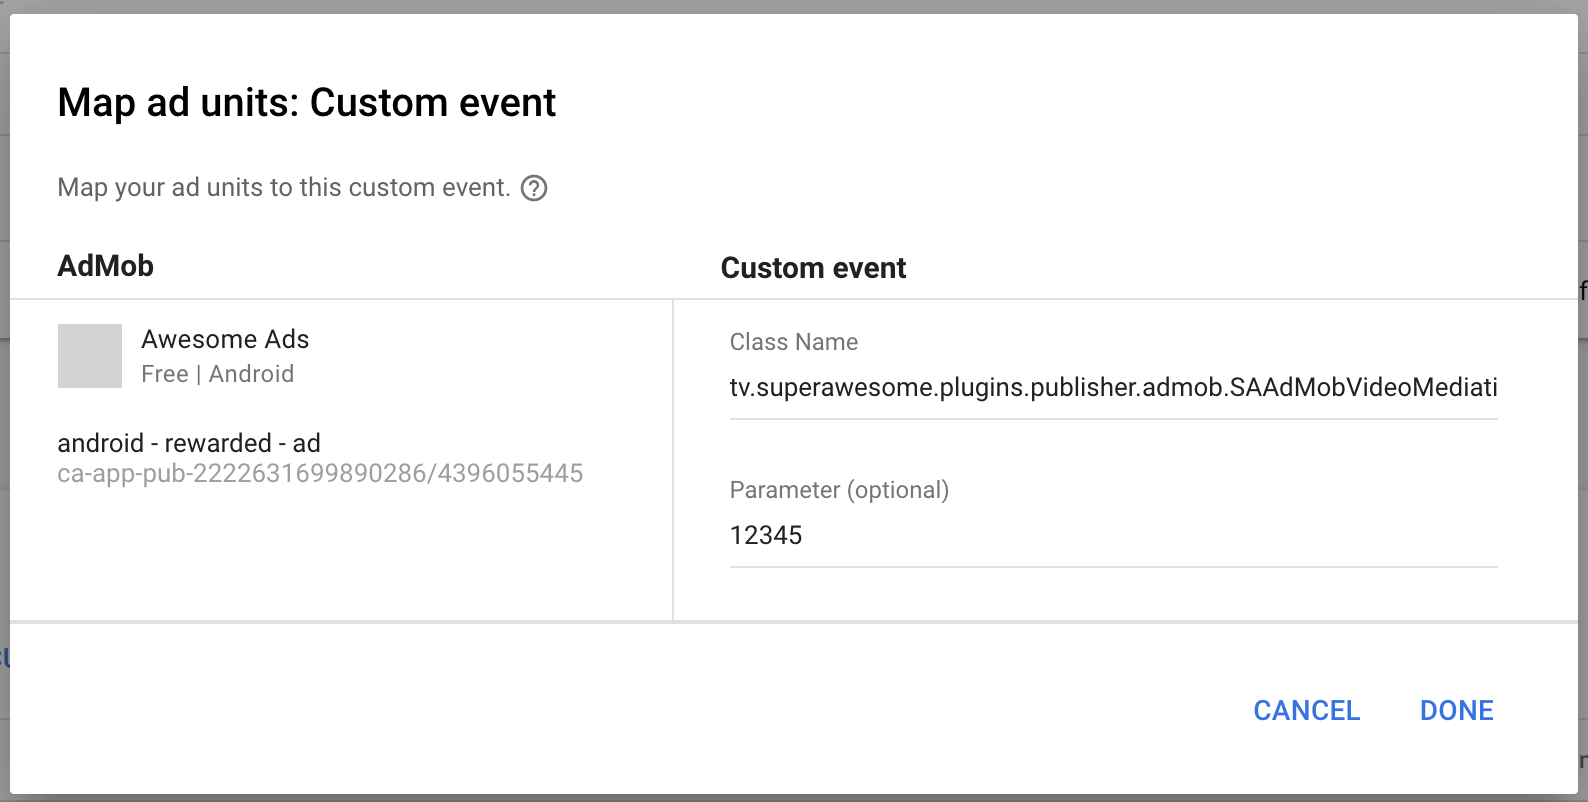
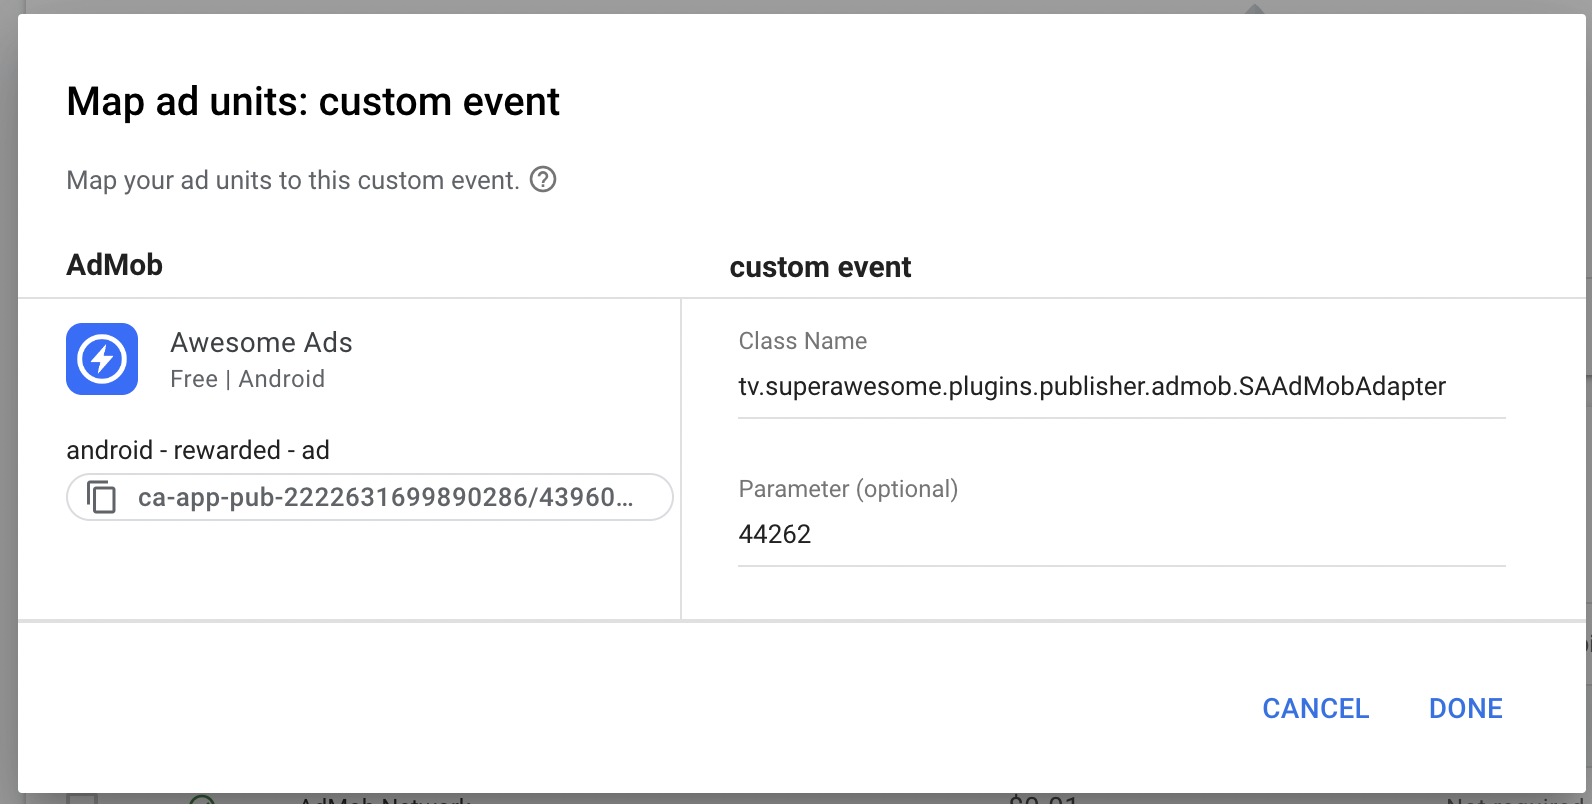
chore(): update docs

diff --git a/docs/_docs/admob-integration.md b/docs/_docs/admob-integration.md
@@ -57,16 +57,14 @@ and, as well, customise it:
 
 ![image-title-here]({{ site.baseurl }}/assets/img/IMG_08_AdMob_6.png){:class="img-responsive"}
 
-Notice that the custom event class names required by AdMob are:
- - <strong>for Banner Ads:</strong>
+Notice that the custom event class name and parameter should be following:
+ - <strong>Class name</strong>
  
- `tv.superawesome.plugins.publisher.admob.SAAdMobBannerCustomEvent`
- - <strong>for Interstitial Ads:</strong> 
+ `tv.superawesome.plugins.publisher.admob.SAAdMobAdapter`
+ - <strong>Parameter</strong> 
  
- `tv.superawesome.plugins.publisher.admob.SAAdMobInterstitialCustomEvent`
- - <strong>for Rewarded Video Ads:</strong> 
- 
- `tv.superawesome.plugins.publisher.admob.SAAdMobVideoMediationAdapter`
+ `12345` -> This is the placement ID 
+
 
 You should now have at least two different `Ad Sources`.
 
